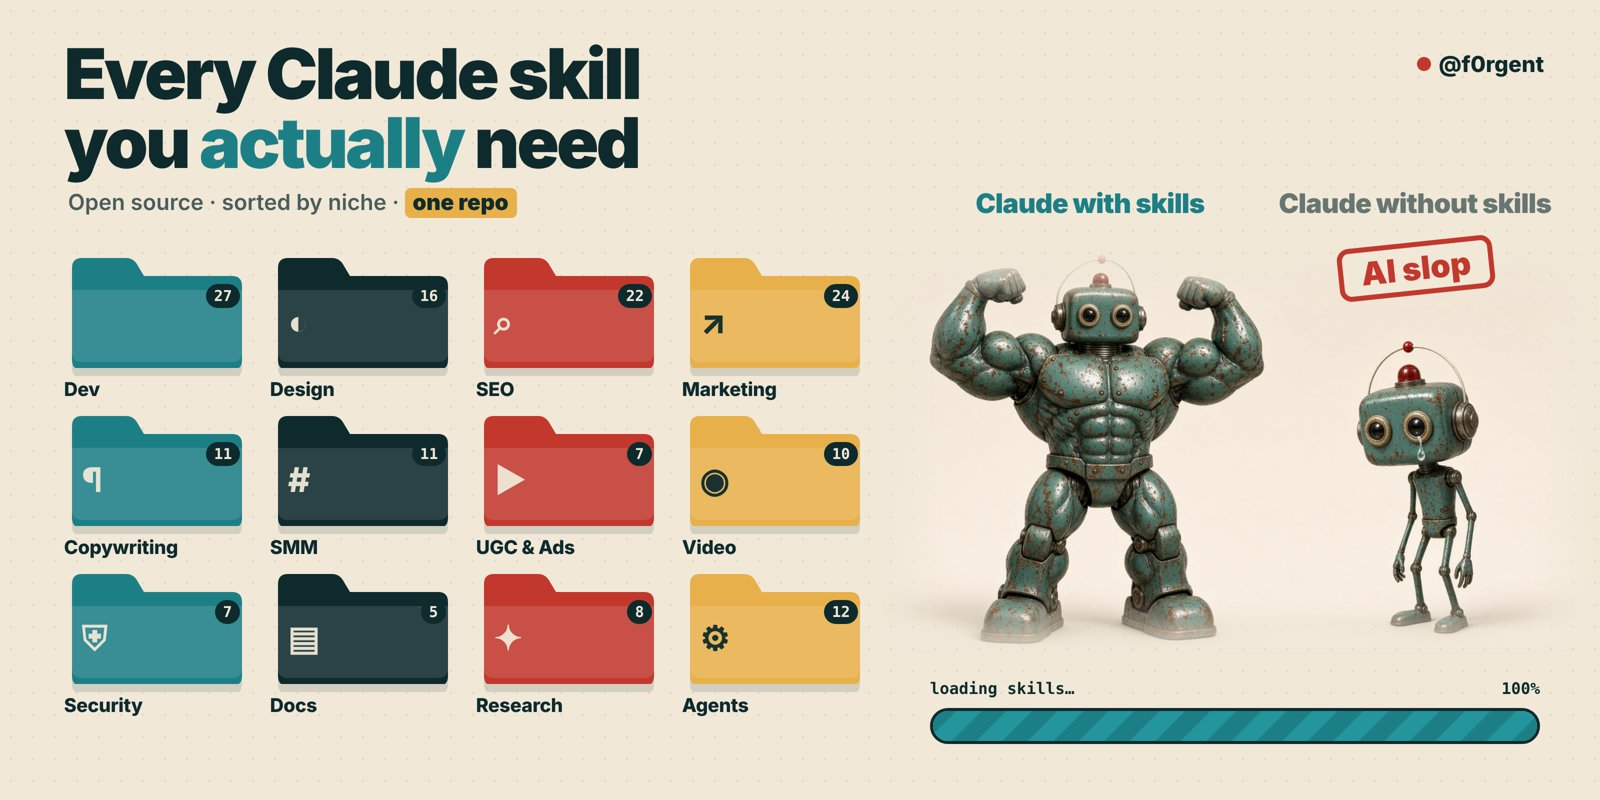
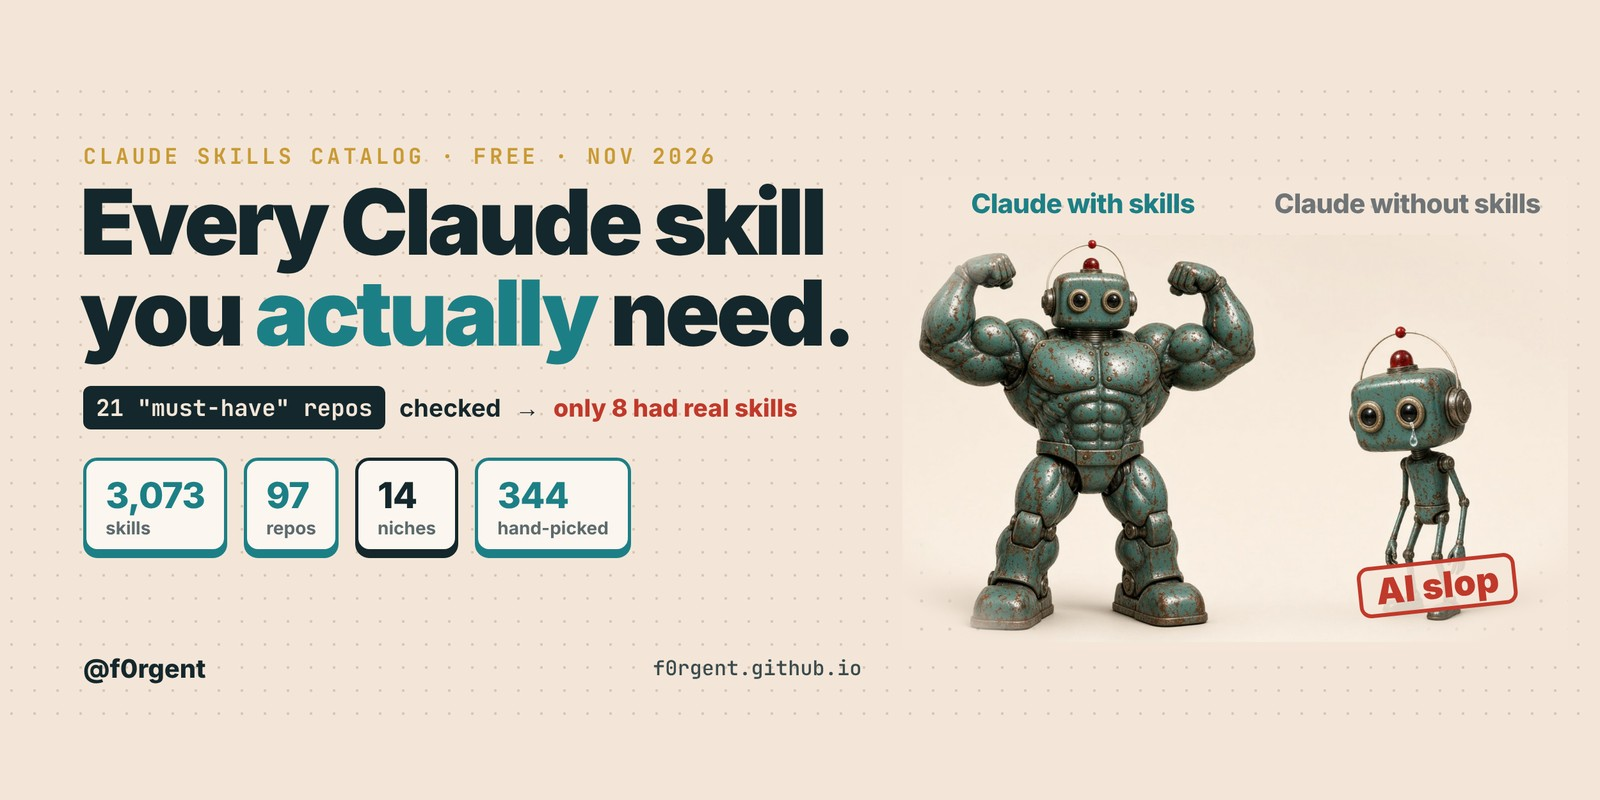
Update hub: 3,073 skills / 97 repos, pack now 5 skills incl. frame-critic, new share image
Claude-Session: https://claude.ai/code/session_01SRzbodpF7VznhmBedYW4GB

diff --git a/index.html b/index.html
@@ -140,9 +140,9 @@ form.mail button{cursor:pointer}
 
 <section style="margin-top:20px">
   <div class="hub">
-    <a class="tile" href="claude-skills-catalog/"><span class="k">FREE · CATALOG</span><h3>Claude Skills Catalog</h3><p>2,267 open-source skills from 77 repos, sorted by niche. Search, copy the install command, done.</p><span class="go">Open →</span></a>
+    <a class="tile" href="claude-skills-catalog/"><span class="k">FREE · CATALOG</span><h3>Claude Skills Catalog</h3><p>3,073 open-source skills from 97 repos, sorted by niche. Search, copy the install command, done.</p><span class="go">Open →</span></a>
     <a class="tile" href="https://github.com/f0rgent/claude-skills-catalog/tree/main/skills/x-reach"><span class="k">FREE · SKILL</span><h3>x-reach</h3><p>A Claude skill for writing X posts that get reach, built from a study of 2,194 video posts.</p><span class="go">Get it →</span></a>
-    <a class="tile paid" href="#pack"><span class="k">PRO · $9</span><h3>X Creator Pack</h3><p>The 4 skills I run my X account with, plus a guide that picks the rest of your skill stack: post templates, the first-reply recipe, X Article playbooks, the monetization playbook and the agent prompts from my videos.</p><span class="go">See what's inside →</span></a>
+    <a class="tile paid" href="#pack"><span class="k">PRO · $9</span><h3>X Creator Pack</h3><p>The 5 skills I run my X account with, plus a guide that picks the rest of your skill stack: post templates, the first-reply recipe, X Article playbooks, the monetization playbook, a frame-by-frame critic for your AI video and the agent prompts from my videos.</p><span class="go">See what's inside →</span></a>
   </div>
 </section>
 
@@ -165,7 +165,7 @@ form.mail button{cursor:pointer}
   <div class="pack">
     <div>
       <h2>X Creator Pack</h2>
-      <p>The 4 Claude skills I run my X account with, plus skill-stack, a guide to the rest of your setup, packed so you can install them in one command. Early price $9. It goes up as new prompts are added, and buyers get every update free.</p>
+      <p>The 5 Claude skills I run my X account with, plus skill-stack, a guide to the rest of your setup, packed so you can install them in one command. Early price $9. It goes up as new prompts are added, and buyers get every update free.</p>
       <a class="btn teal" id="buy" href="https://f0rgent.gumroad.com/l/x-creator-pack" target="_blank" rel="noopener">Buy for $9</a>
     </div>
     <ul>
@@ -173,13 +173,14 @@ form.mail button{cursor:pointer}
       <li><b>agent-episodes</b>: the full loop for "AI agent audits my ___" posts, plus the two prompts I ran on camera: home Wi-Fi audit and Vitalik mode.</li>
       <li><b>x-article-playbooks</b>: two playbooks for X Articles (technical AI guides, money psychology) with step 0, structure, voice and a self-check.</li>
       <li><b>x-monetization-playbook</b>: how X Creator payouts work, what makes a hit, the 7-block post template, posting rhythm and a 30-day checklist (data from a study of 300 paid accounts).</li>
+      <li><b>frame-critic</b>: a director for your AI video. It cuts the render into a contact sheet, scores every frame out of 10, boxes the bugs, then fixes and re-renders until no frame is under 8. Safe zones for TikTok, Reels, Shorts and X included.</li>
       <li><b>skill-stack</b>: picks 3 to 6 skills from the catalog for your role, with exact install commands, a safety check before you install anything third-party, and a test prompt for each.</li>
     </ul>
     <div class="cmp">
       <table>
         <thead><tr><th></th><th>Free</th><th>Pro pack</th></tr></thead>
         <tbody>
-          <tr><td>Skills catalog (2,267 skills)</td><td>✓</td><td>✓</td></tr>
+          <tr><td>Skills catalog (3,073 skills)</td><td>✓</td><td>✓</td></tr>
           <tr><td>x-reach: data on what gets reach</td><td>✓</td><td>✓</td></tr>
           <tr><td>Post templates</td><td>2</td><td>4</td></tr>
           <tr><td>First-reply recipe</td><td></td><td>✓</td></tr>
@@ -187,6 +188,7 @@ form.mail button{cursor:pointer}
           <tr><td>Episode loop: prompt, record, edit, post</td><td></td><td>✓</td></tr>
           <tr><td>X Article playbooks (tech, money)</td><td></td><td>✓</td></tr>
           <tr><td>Monetization playbook + 30-day checklist</td><td></td><td>✓</td></tr>
+          <tr><td>frame-critic: frame-by-frame check of your AI video</td><td></td><td>✓</td></tr>
           <tr><td>skill-stack: starter stacks by role + safety check</td><td></td><td>✓</td></tr>
           <tr><td>New prompts after each episode</td><td></td><td>✓</td></tr>
         </tbody>
